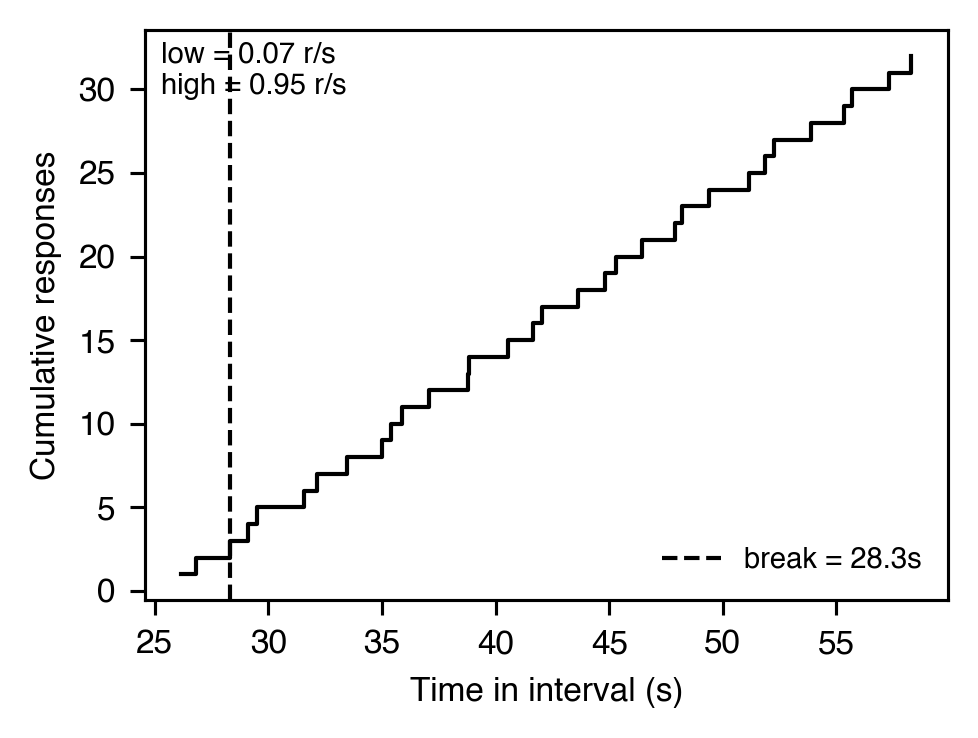
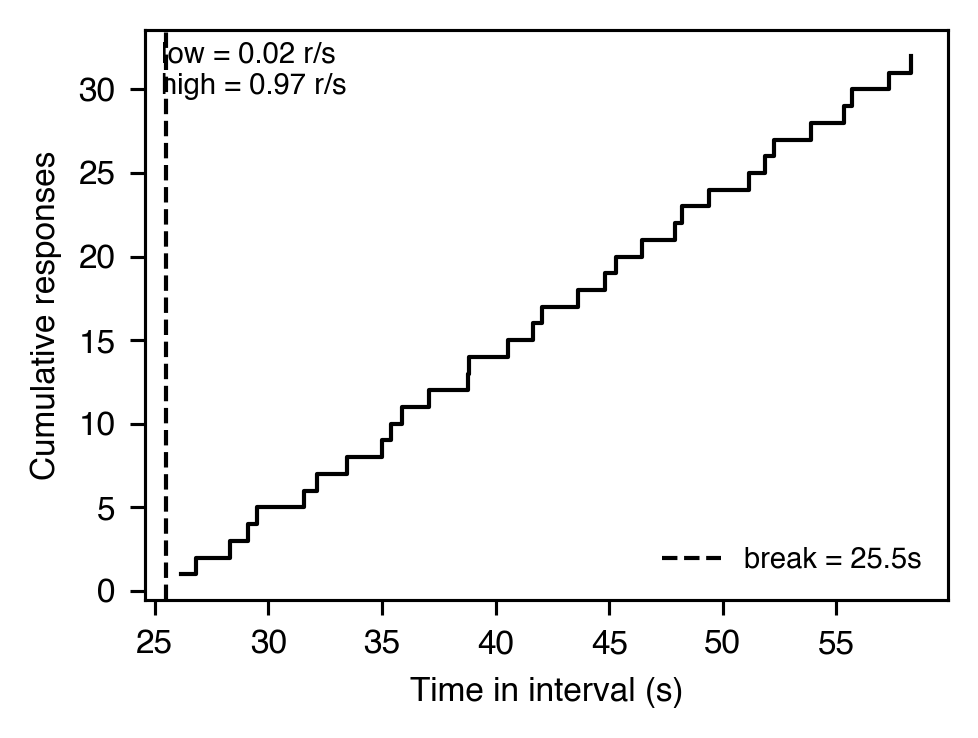
fix: fit Schneider's two-state breakpoint by least squares
schneider_two_state picked the breakpoint that maximised the jump in
rate, which lands on a short two-response burst near the end of the
interval (0.94-0.98 of FI 60-s for both a scalloped subject and a
Poisson responder). Schneider (1969) instead fits the cumulative record
with a line through the origin and a second line joined to it at the
breakpoint, and keeps the breakpoint with the smallest sum of squared
deviations. Do that on a grid of the interval, keep both rates
non-negative, and allow state 1 to hold no responses.

diff --git a/src/session_analyzer/analytics/schneider_segment.py b/src/session_analyzer/analytics/schneider_segment.py
@@ -1,17 +1,19 @@
 """Schneider's (1969) two-state break-and-run segmentation.
 
-Schneider analyzed FI cumulative records as a sequence of two
-piecewise-linear segments: an initial low-rate "post-reinforcement
-pause" and a subsequent high-rate "running" segment. Given response
-times within a single inter-reinforcement interval, this module finds
-the optimal break point ``t*`` that maximizes the difference between
-the slopes of the two segments while explaining the observed counts.
+Schneider analyzed FI cumulative records as two states: an initial
+low-rate "post-reinforcement pause" and a subsequent high-rate
+"running" state. The numerical procedure fits each interval's
+cumulative record with two straight lines: one through the origin up to
+the breakpoint, and a second one joined to it at the breakpoint. The
+breakpoint is moved systematically through the interval, and the one
+that minimizes the sum of squared deviations from the two lines is
+taken as the breakpoint.
 
-The specific objective used here is the maximum increase in slope
-across the candidate break point: for each candidate ``t*`` placed at
-a response time, the slope below and above ``t*`` are computed, and
-``t*`` is chosen to maximize ``slope_high - slope_low`` subject to a
-minimum number of responses on each side.
+Here the cumulative record is the count ``1, 2, ..., n`` at each
+response time, the breakpoint is moved along an evenly spaced grid of
+the interval, and both fitted rates are kept non-negative (if the
+unconstrained low rate is negative, the high-rate line alone is fitted
+with the low rate fixed at 0, and vice versa).
 
 Reference
 ---------
@@ -22,8 +24,8 @@ Schneider, B. A. (1969). A two-state analysis of fixed-interval
 
 from __future__ import annotations
 
+from collections.abc import Sequence
 from dataclasses import dataclass
-from typing import Sequence
 
 
 @dataclass(frozen=True)
@@ -33,9 +35,9 @@ class SchneiderTwoStateResult:
     Attributes
     ----------
     break_time : float
-        Time within the interval at which the two-state model places
-        the transition from low- to high-rate responding. Reported
-        relative to ``interval_start``.
+        Time at which the two-state model places the transition from
+        low- to high-rate responding, on the same clock as the response
+        times (``interval_start <= break_time <= interval_end``).
     pause_duration : float
         Duration of the low-rate phase (= ``break_time -
         interval_start``).
@@ -43,13 +45,17 @@ class SchneiderTwoStateResult:
         Duration of the high-rate phase (= ``interval_end -
         break_time``).
     low_rate : float
-        Responses per second during the pause phase.
+        Fitted slope of the line before the breakpoint, in responses
+        per second.
     high_rate : float
-        Responses per second during the run phase.
+        Fitted slope of the line after the breakpoint, in responses per
+        second.
     slope_difference : float
         ``high_rate - low_rate``.
     n_low : int
+        Responses at or before ``break_time``.
     n_high : int
+        Responses after ``break_time``.
     """
 
     break_time: float
@@ -62,14 +68,40 @@ class SchneiderTwoStateResult:
     n_high: int
 
 
+def _fit_two_lines(
+    x1: Sequence[float], x2: Sequence[float], y: Sequence[int]
+) -> tuple[float, float, float] | None:
+    """Least-squares ``y = low * x1 + high * x2`` with both slopes >= 0.
+
+    Returns ``(sse, low, high)`` or ``None`` when no slope is identified.
+    """
+    s11 = sum(u * u for u in x1)
+    s22 = sum(v * v for v in x2)
+    s12 = sum(u * v for u, v in zip(x1, x2, strict=True))
+    s1y = sum(u * c for u, c in zip(x1, y, strict=True))
+    s2y = sum(v * c for v, c in zip(x2, y, strict=True))
+    det = s11 * s22 - s12 * s12
+    if det <= 0.0:
+        return None
+    low = (s1y * s22 - s2y * s12) / det
+    high = (s2y * s11 - s1y * s12) / det
+    if low < 0.0:
+        low, high = 0.0, s2y / s22
+    elif high < 0.0:
+        low, high = s1y / s11, 0.0
+    sse = sum((c - low * u - high * v) ** 2 for u, v, c in zip(x1, x2, y, strict=True))
+    return sse, low, high
+
+
 def schneider_two_state(
     response_times: Sequence[float],
     *,
     interval_start: float,
     interval_end: float,
     min_responses_per_segment: int = 2,
+    grid: int = 200,
 ) -> SchneiderTwoStateResult | None:
-    """Find the optimal two-state segmentation of a single FI interval.
+    """Fit Schneider's (1969) two-state model to a single FI interval.
 
     Parameters
     ----------
@@ -79,8 +111,13 @@ def schneider_two_state(
     interval_start, interval_end : float
         Inter-reinforcement interval boundaries; ``end > start``.
     min_responses_per_segment : int
-        Minimum number of responses required on each side of the break
-        point. Default 2.
+        The interval must hold at least ``2 * min_responses_per_segment``
+        responses. The fit itself does not require responses on each
+        side of the breakpoint, because state 1 often holds none.
+        Default 2.
+    grid : int
+        Number of equal steps of the interval along which the
+        breakpoint is moved (candidates exclude both ends). Default 200.
 
     Returns
     -------
@@ -93,7 +130,8 @@ def schneider_two_state(
     ------
     ValueError
         On unsorted ``response_times``, out-of-range responses, or
-        invalid interval bounds.
+        invalid interval bounds, ``min_responses_per_segment`` or
+        ``grid``.
     """
     if interval_end <= interval_start:
         raise ValueError(
@@ -103,6 +141,8 @@ def schneider_two_state(
         raise ValueError(
             "min_responses_per_segment must be >= 1"
         )
+    if grid < 2:
+        raise ValueError("grid must be >= 2")
     if any(
         response_times[i] > response_times[i + 1]
         for i in range(len(response_times) - 1)
@@ -119,36 +159,29 @@ def schneider_two_state(
     if n < 2 * min_responses_per_segment:
         return None
 
-    times = list(response_times)
-    best: SchneiderTwoStateResult | None = None
-    best_diff = -float("inf")
+    times = [t - interval_start for t in response_times]
+    counts = range(1, n + 1)
+    length = interval_end - interval_start
+    best: tuple[float, float, float, float] | None = None
+    for step in range(1, grid):
+        b = length * step / grid
+        x1 = [min(t, b) for t in times]
+        x2 = [max(0.0, t - b) for t in times]
+        fit = _fit_two_lines(x1, x2, counts)
+        if fit is not None and (best is None or fit[0] < best[0]):
+            best = (fit[0], b, fit[1], fit[2])
+    if best is None:
+        return None
 
-    # Candidate breaks: between response i and i+1, with at least
-    # `min_responses_per_segment` responses on each side. We place
-    # the break at the response time r_{i+1}, so responses 0..i fall
-    # into the low segment and i+1..n-1 fall into the high segment.
-    for i in range(min_responses_per_segment - 1, n - min_responses_per_segment):
-        n_low = i + 1
-        n_high = n - n_low
-        break_time = times[i + 1]
-        low_dur = break_time - interval_start
-        high_dur = interval_end - break_time
-        if low_dur <= 0.0 or high_dur <= 0.0:
-            continue
-        low_rate = n_low / low_dur
-        high_rate = n_high / high_dur
-        diff = high_rate - low_rate
-        if diff > best_diff:
-            best_diff = diff
-            best = SchneiderTwoStateResult(
-                break_time=float(break_time),
-                pause_duration=float(low_dur),
-                run_duration=float(high_dur),
-                low_rate=float(low_rate),
-                high_rate=float(high_rate),
-                slope_difference=float(diff),
-                n_low=n_low,
-                n_high=n_high,
-            )
-
-    return best
+    _, b, low, high = best
+    n_low = sum(1 for t in times if t <= b)
+    return SchneiderTwoStateResult(
+        break_time=float(interval_start + b),
+        pause_duration=float(b),
+        run_duration=float(length - b),
+        low_rate=float(low),
+        high_rate=float(high),
+        slope_difference=float(high - low),
+        n_low=n_low,
+        n_high=n - n_low,
+    )

diff --git a/tests/test_schneider_segment.py b/tests/test_schneider_segment.py
@@ -34,15 +34,66 @@ def test_returns_none_when_fewer_than_2_per_segment() -> None:
 
 
 @pytest.mark.unit
-def test_break_difference_is_non_negative_when_data_warrants() -> None:
-    # Constant-rate responding produces a flat slope; difference may be 0.
+def test_constant_rate_gives_equal_low_and_high_rates() -> None:
+    # One response per second throughout: both fitted lines have slope 1,
+    # wherever the breakpoint falls.
     result = schneider_two_state(
-        [10.0 * i for i in range(1, 7)],
+        [float(i) for i in range(1, 61)],
         interval_start=0.0,
         interval_end=60.0,
     )
     assert result is not None
-    assert result.slope_difference >= 0.0
+    assert result.low_rate == pytest.approx(1.0, rel=0.05)
+    assert result.high_rate == pytest.approx(1.0, rel=0.05)
+    assert result.slope_difference == pytest.approx(0.0, abs=0.05)
+
+
+@pytest.mark.unit
+def test_switch_at_two_thirds_is_found_by_least_squares() -> None:
+    # 0.1 resp/s for 0-40 s, then 1 resp/s for 40-60 s: the breakpoint is
+    # at 2/3 of the interval, not at a short high-rate pair near the end.
+    low = [10.0 * i for i in range(1, 5)]
+    high = [40.0 + i for i in range(1, 21)]
+    result = schneider_two_state(
+        low + high, interval_start=0.0, interval_end=60.0
+    )
+    assert result is not None
+    assert result.break_time == pytest.approx(40.0, abs=1.5)
+    assert result.low_rate == pytest.approx(0.1, abs=0.03)
+    assert result.high_rate == pytest.approx(1.0, rel=0.1)
+    # The response at 40 s lies on the switch itself and may go either way.
+    assert result.n_low in (3, 4)
+    assert result.n_low + result.n_high == 24
+
+
+@pytest.mark.unit
+def test_break_time_is_on_the_clock_of_the_responses() -> None:
+    # The same interval shifted by 100 s moves break_time by 100 s.
+    low = [10.0 * i for i in range(1, 5)]
+    high = [40.0 + i for i in range(1, 21)]
+    base = schneider_two_state(low + high, interval_start=0.0, interval_end=60.0)
+    shifted = schneider_two_state(
+        [t + 100.0 for t in low + high], interval_start=100.0, interval_end=160.0
+    )
+    assert base is not None and shifted is not None
+    assert shifted.break_time == pytest.approx(base.break_time + 100.0)
+    assert shifted.pause_duration == pytest.approx(base.pause_duration)
+
+
+@pytest.mark.unit
+def test_state_one_may_hold_no_responses() -> None:
+    # Schneider (1969): state 1 has "little or no responding". With no
+    # response before 30 s, every breakpoint in [29, 30] fits the counts
+    # exactly (low rate 0 to 1/30); the fit must land there with a
+    # non-negative low rate, not somewhere earlier with a negative one.
+    result = schneider_two_state(
+        [30.0 + i for i in range(30)], interval_start=0.0, interval_end=60.0
+    )
+    assert result is not None
+    assert 29.0 - 1e-9 <= result.break_time <= 30.0 + 1e-9
+    assert 0.0 <= result.low_rate <= 1.0 / 30.0 + 1e-9
+    assert result.high_rate == pytest.approx(1.0)
+    assert result.n_low <= 1
 
 
 @pytest.mark.unit
@@ -68,6 +119,14 @@ def test_raises_on_responses_outside_interval() -> None:
     with pytest.raises(ValueError, match="within"):
         schneider_two_state(
             [5.0, 11.0], interval_start=0.0, interval_end=10.0
+        )
+
+
+@pytest.mark.unit
+def test_raises_on_invalid_grid() -> None:
+    with pytest.raises(ValueError, match="grid"):
+        schneider_two_state(
+            [1.0, 2.0, 3.0, 4.0], interval_start=0.0, interval_end=10.0, grid=1
         )
 
 

diff --git a/docs/ja/analyses/rate-and-pattern.md b/docs/ja/analyses/rate-and-pattern.md
@@ -73,11 +73,11 @@
 
 ### Schneider の 2 状態セグメンテーション — `SchneiderTwoStateResult`
 
-- **テーマ** — Schneider (1969) は FI 累積記録を 2 つの区分線形セグメント（pause then run）でモデル化した。inter-reinforcement 区間内の応答時刻から、`high_rate − low_rate` を最大化する最適 break time `t*` を、各セグメント最小応答数の制約下で決定する。
-- **出力** — `SchneiderTwoStateResult(break_time=25.6, pause_duration=25.6, run_duration=34.4, low_rate=0.04, high_rate=0.93, slope_difference=0.89, n_low=2, n_high=30)`
+- **テーマ** — Schneider (1969) は FI 累積記録を 2 つの状態（休止 → 走行）でモデル化した。原典の数値手続きに従い、強化間間隔 1 つの累積記録に、breakpoint までの原点を通る直線と、breakpoint でそれに接続する直線の 2 本を最小二乗で当てる。breakpoint を間隔の格子上で動かし、二乗誤差の和が最小の点を採る。2 本の傾き（反応率）は負にならないよう制約し、状態 1 に反応が 1 つも無くてもよい。
+- **出力** — `SchneiderTwoStateResult(break_time=25.5, pause_duration=25.5, run_duration=34.5, low_rate=0.02, high_rate=0.97, slope_difference=0.95, n_low=0, n_high=32)`
 - **引用** — Schneider, B. A. (1969). A two-state analysis of fixed-interval responding in the pigeon. *JEAB*, 12(5), 677-687. <https://doi.org/10.1901/jeab.1969.12-677>
 
-![傾き差最大の break time で分割した累積記録](../../assets/figures/schneider_segment.png)
+![最小二乗の breakpoint で分割した累積記録](../../assets/figures/schneider_segment.png)
 
 ### IRT 自己相関 — `IRTAutocorrelation`
 

diff --git a/docs/en/analyses/rate-and-pattern.md b/docs/en/analyses/rate-and-pattern.md
@@ -75,11 +75,11 @@ Morse, 1957).
 
 ### Schneider two-state segmentation — `SchneiderTwoStateResult`
 
-- **Theme** — Schneider (1969) modelled FI cumulative records as two piecewise-linear segments — pause then run. Given response times within an inter-reinforcement interval, the function locates the optimal break time `t*` that maximises `high_rate − low_rate`, subject to a minimum number of responses per segment.
-- **Output** — `SchneiderTwoStateResult(break_time=25.6, pause_duration=25.6, run_duration=34.4, low_rate=0.04, high_rate=0.93, slope_difference=0.89, n_low=2, n_high=30)`
+- **Theme** — Schneider (1969) modelled FI cumulative records as two states — pause then run. Following his numerical procedure, the cumulative record of one inter-reinforcement interval is fitted by least squares with a line through the origin up to the breakpoint and a second line joined to it at the breakpoint; the breakpoint is moved along a grid of the interval and the one with the smallest sum of squared deviations is kept. Both fitted rates are kept non-negative, and state 1 may hold no responses.
+- **Output** — `SchneiderTwoStateResult(break_time=25.5, pause_duration=25.5, run_duration=34.5, low_rate=0.02, high_rate=0.97, slope_difference=0.95, n_low=0, n_high=32)`
 - **Reference** — Schneider, B. A. (1969). A two-state analysis of fixed-interval responding in the pigeon. *JEAB*, 12(5), 677-687. <https://doi.org/10.1901/jeab.1969.12-677>
 
-![Cumulative record split at the maximum-slope-jump break time](../../assets/figures/schneider_segment.png)
+![Cumulative record split at the least-squares breakpoint](../../assets/figures/schneider_segment.png)
 
 ### IRT autocorrelation — `IRTAutocorrelation`
 
